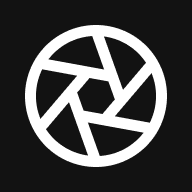
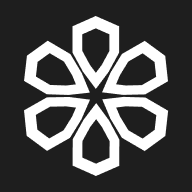
made it all more generic/settings driven. removed old fluff

Changed region(s): [[0.125, 0.0625, 0.875, 0.9375]]

diff --git a/src/assets/css/base.css b/src/assets/css/base.css
@@ -2,6 +2,7 @@
 @reference "./global.css";
 
 :root {
+  color-scheme: dark;
   scroll-behavior: smooth;
   scroll-padding-top: 2em;
 }

diff --git a/src/assets/css/buttons.css b/src/assets/css/buttons.css
@@ -33,5 +33,5 @@
     hover:before:translate-x-0
     hover:before:opacity-10
     active:before:opacity-0
-    ;
+  ;
 }

diff --git a/README.md b/README.md
@@ -1,10 +1,35 @@
-# Make custom Mac apps: creating our own web dev tools
+# make your own macOS apps
+
+NOTE: you might need to Allow Audio and Video in the Autoplay settings in your browser's address bar!
+
+NOTE: FireFox has a bug where it won't trigger video autoplay with page transitions, use Chrome unfortunately :(
+
+## To make this slide app your own
+
+- Update the settings in `src/meta/settings.json`
+- Create the slide mdx in `src/content/slides/`
+- Create videos in `public/videos`
+- Create images in `src/assets/images/`
+- Add voice overs to `public/voice-over`
+- Replace the logo svg in `src/assets/images/logo.svg`
 
 ## View in your browser
 
 https://blackspike-mac-apps.netlify.app
 
-## YouTube script
+## Script for elevenlabs.io voice overs
+
+At blackspike design we often create single-use mac apps for automating repetitive tasks, like this app, to generate web-ready videos.
+
+AI is excellent at AppleScript, so prompt it for f f m-peg commands to optimise and convert dragged mp4's to web-m, and extract the first frame as an avif poster image.
+
+Paste the code into your Mac's built-in Script Editor app in your Utilities folder, and save it with the file format set to Application.
+
+Now drag any mp4 file onto the app for a collection of web-ready videos. As a bonus, we copy an html video tag snippet to your clipboard, ready to paste into a web page.
+
+Finally, we use a custom icon we drew in Inkscape – a different colour for each app. Download ours from the video description.
+
+## YouTube description
 
 We use #AI to write single-use #AppleScript mac applications to save time on routine web development tasks.
 
